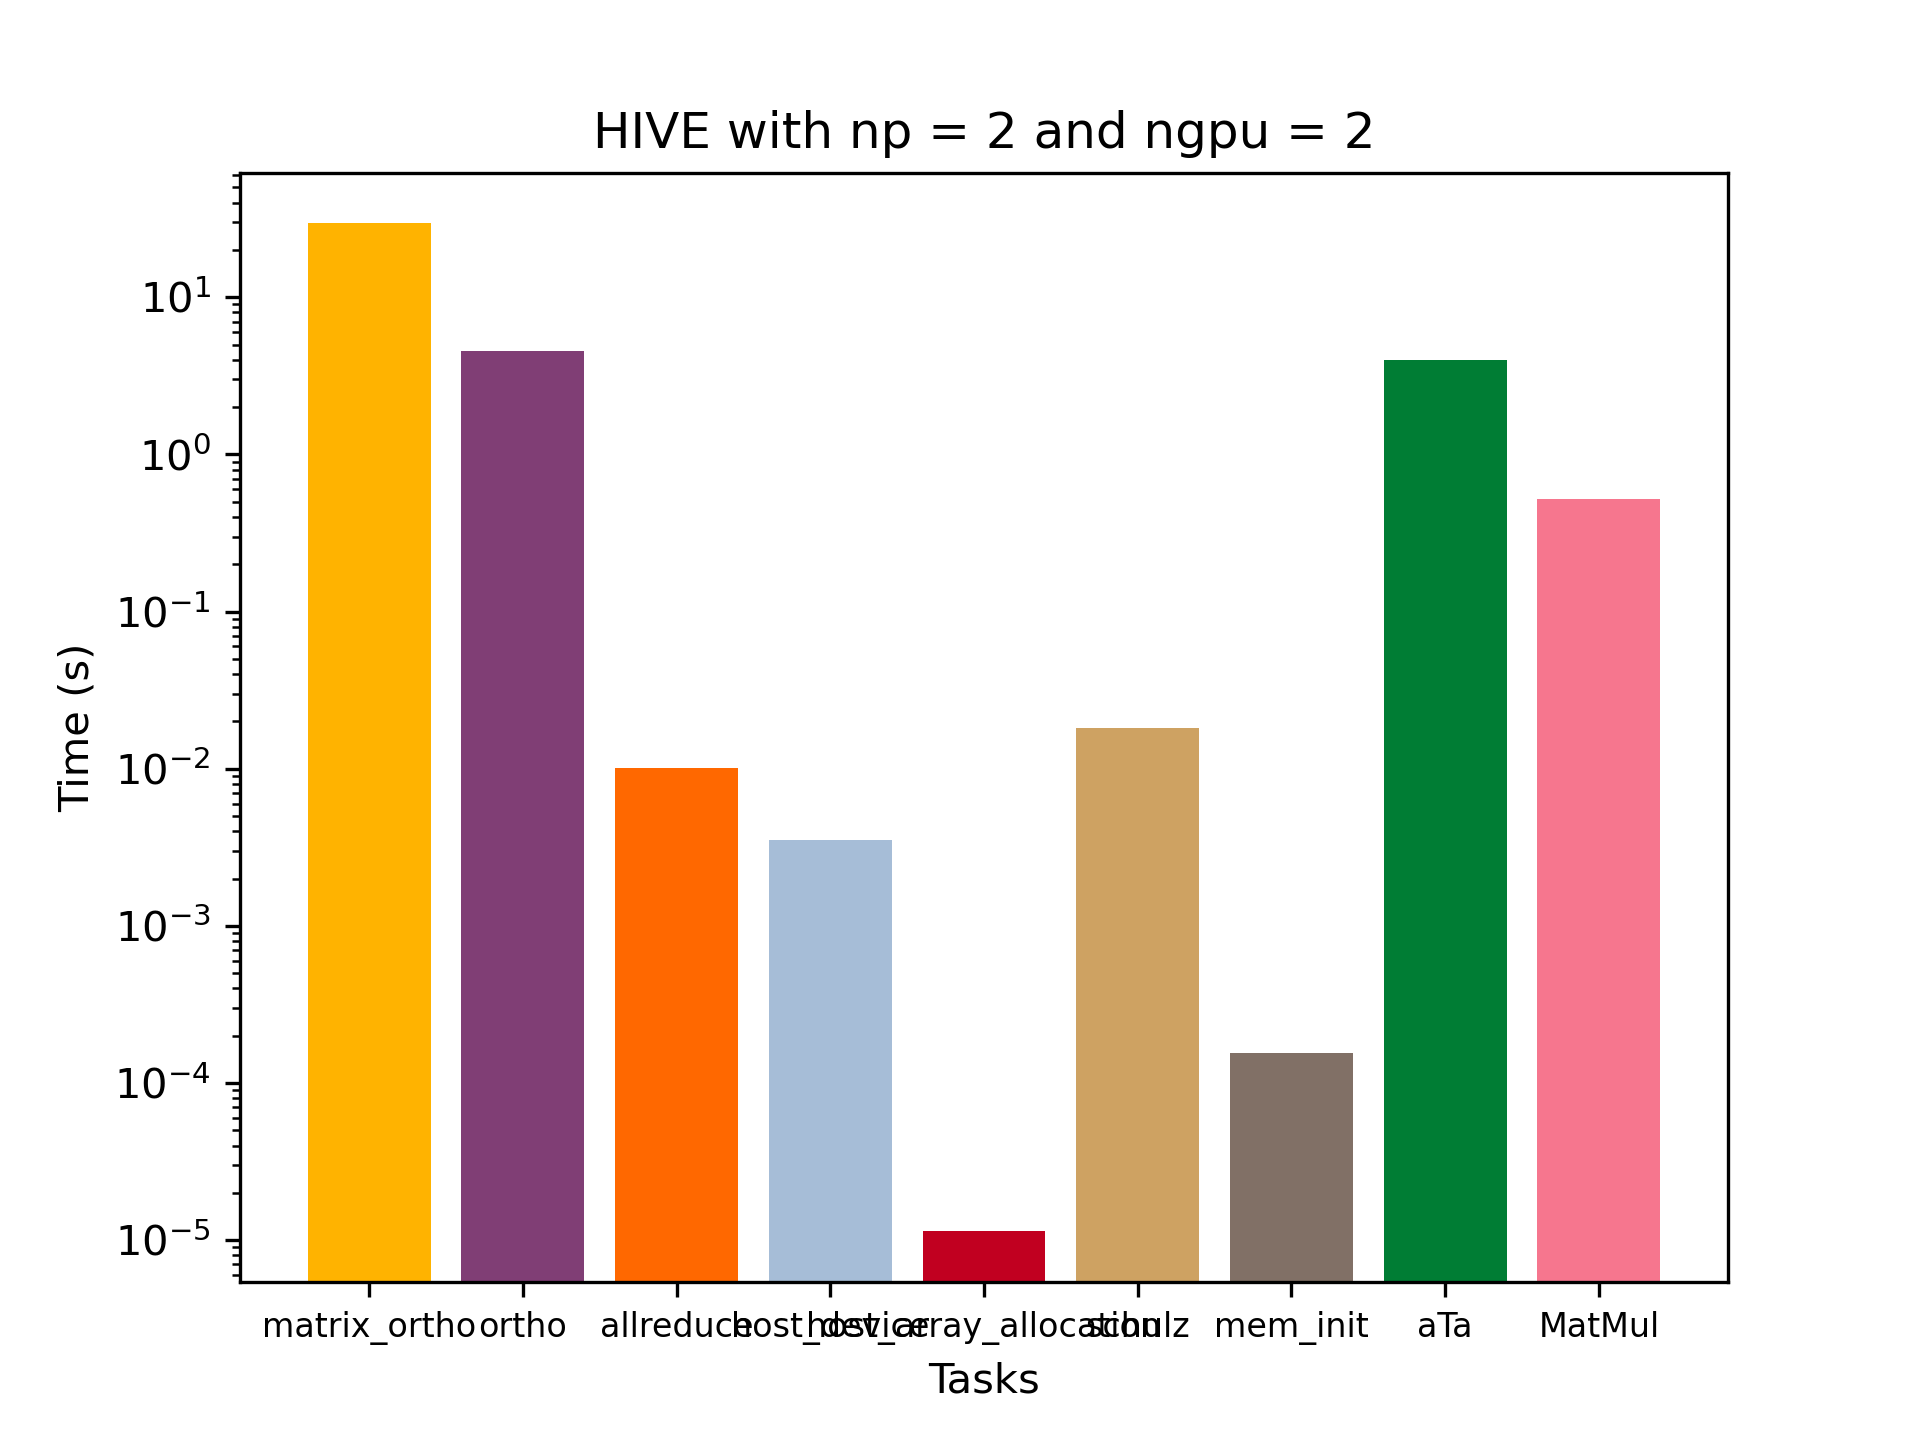
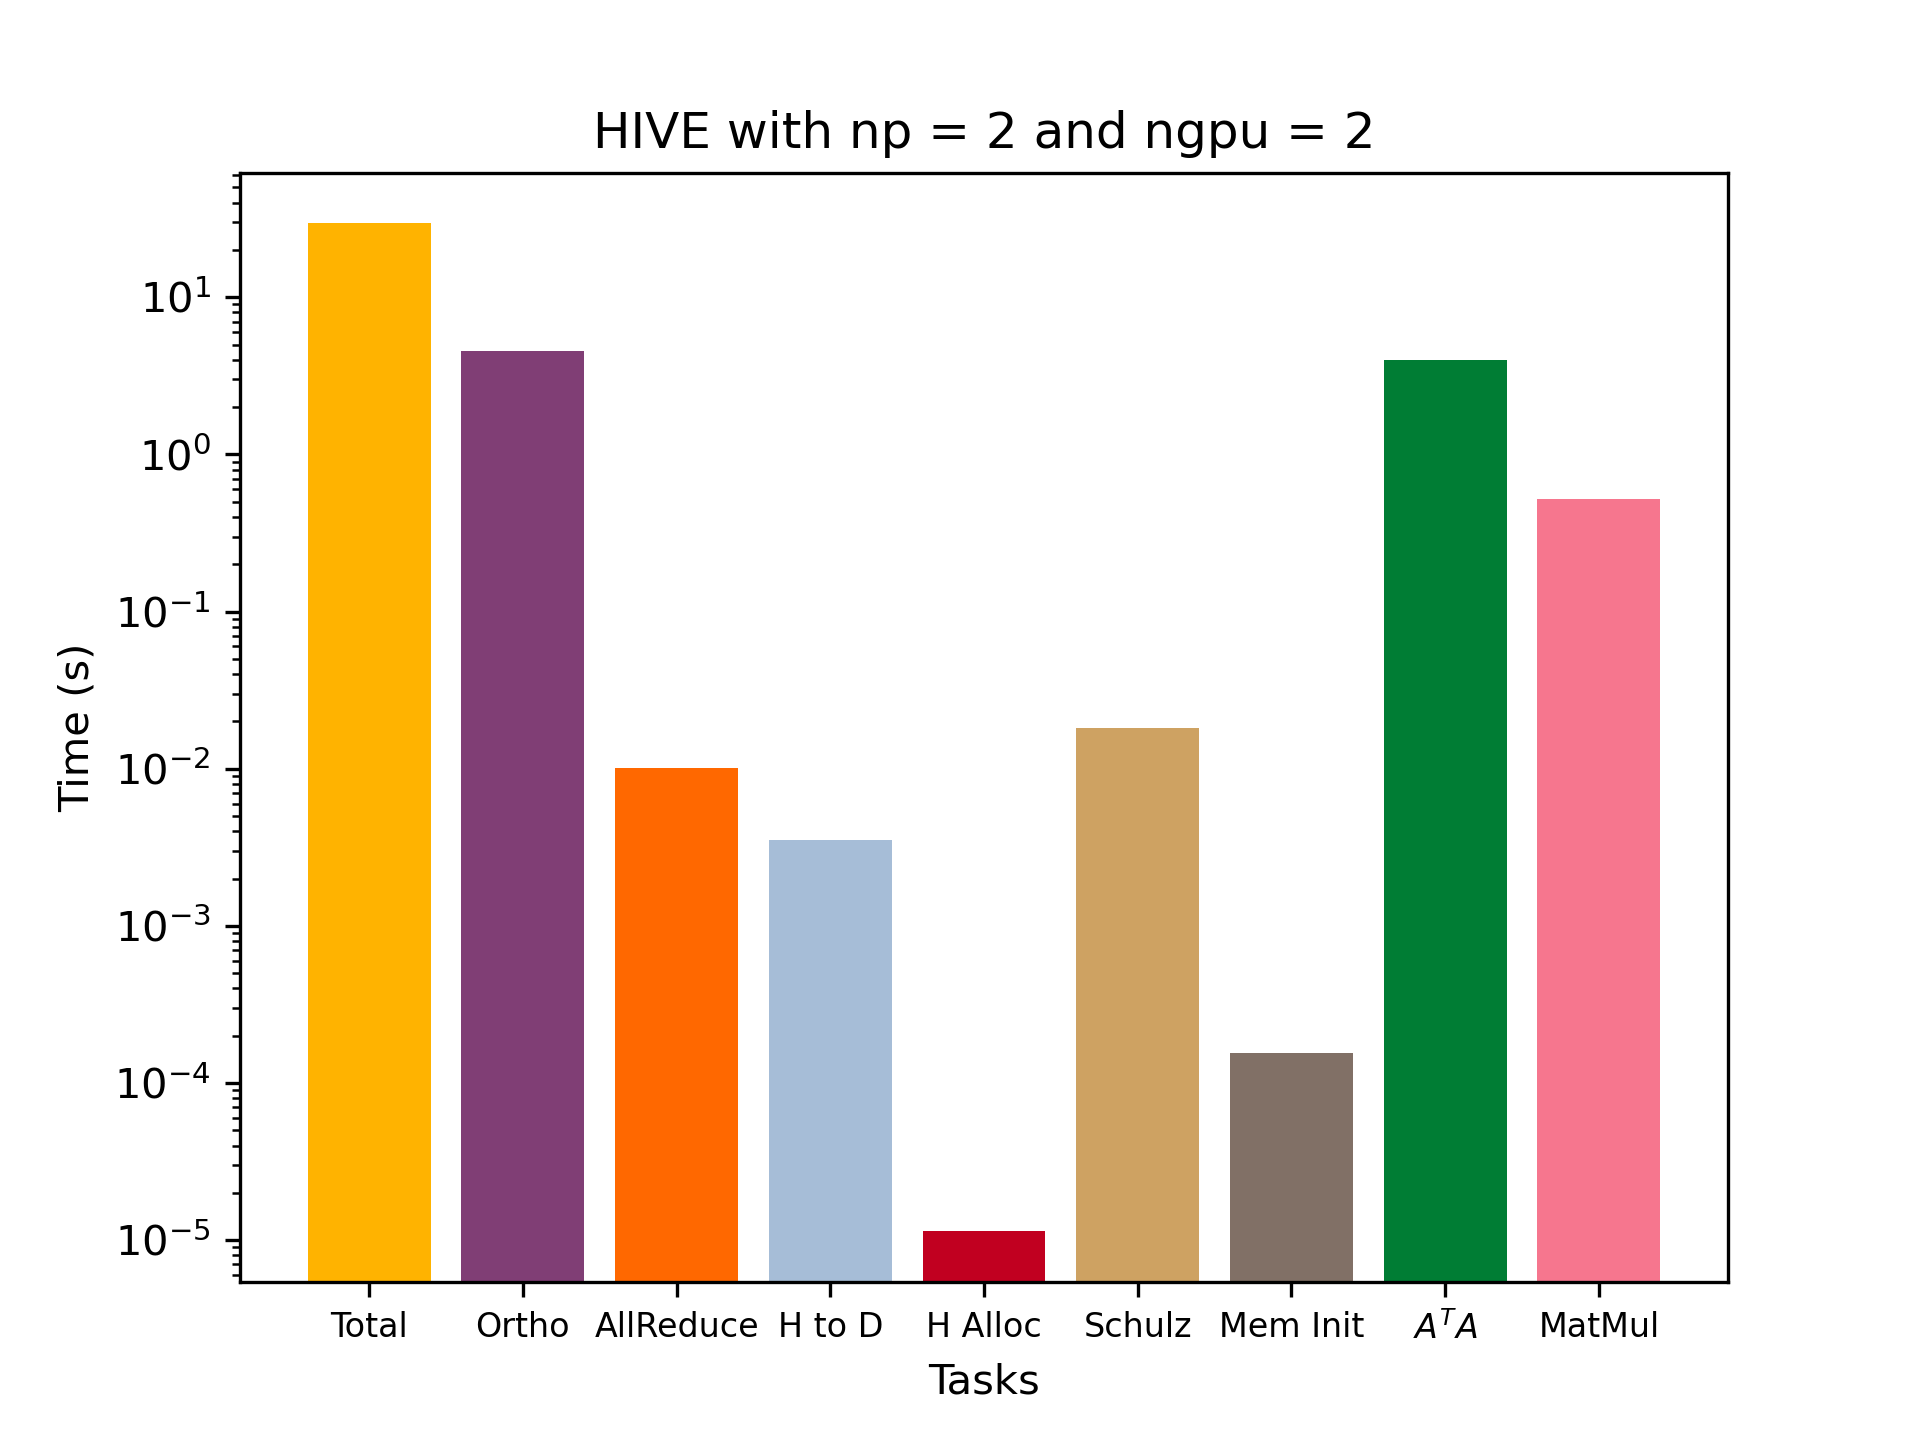
fixed xlabels

Changed region(s): [[0.125, 0.9062, 0.7812, 0.9688]]

diff --git a/plotting/main.py b/plotting/main.py
@@ -198,7 +198,7 @@ def fig7_clusters(
     df2.drop(columns=["n"], inplace=True)
     df2.drop(columns=["gpus"], inplace=True)
 
-    labels = df2.columns.values
+    # labels = df2.columns.values
     # print(labels)
     # labels = [
     #     'Total',  # 'matrix_ortho',
